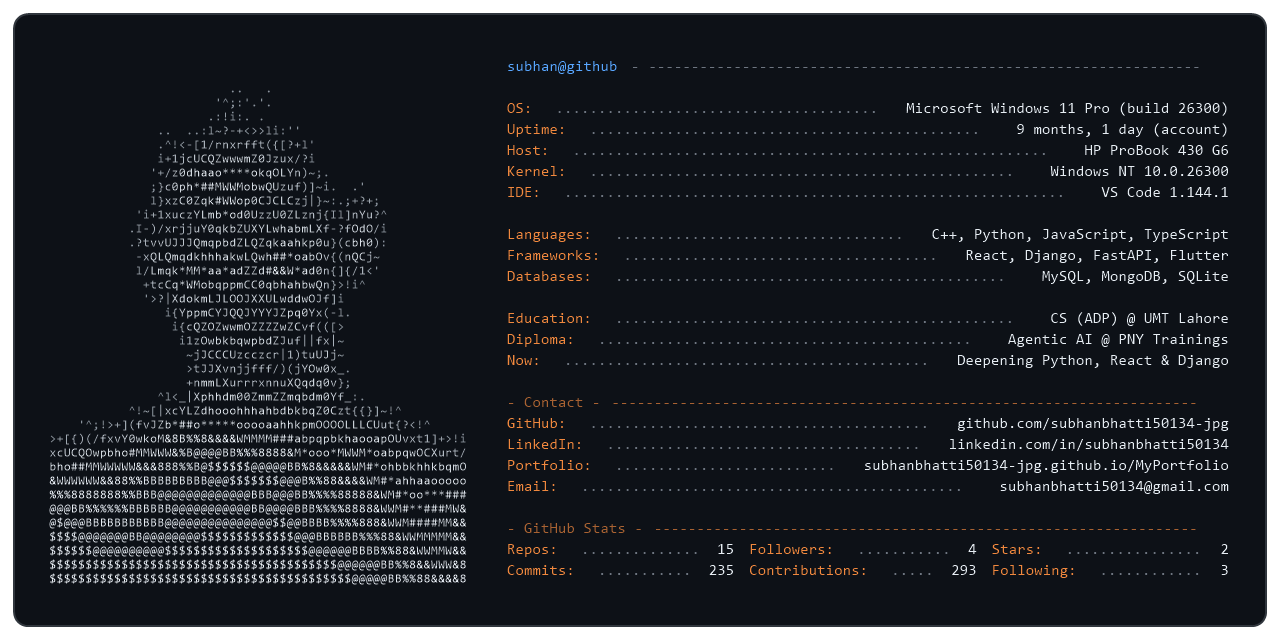
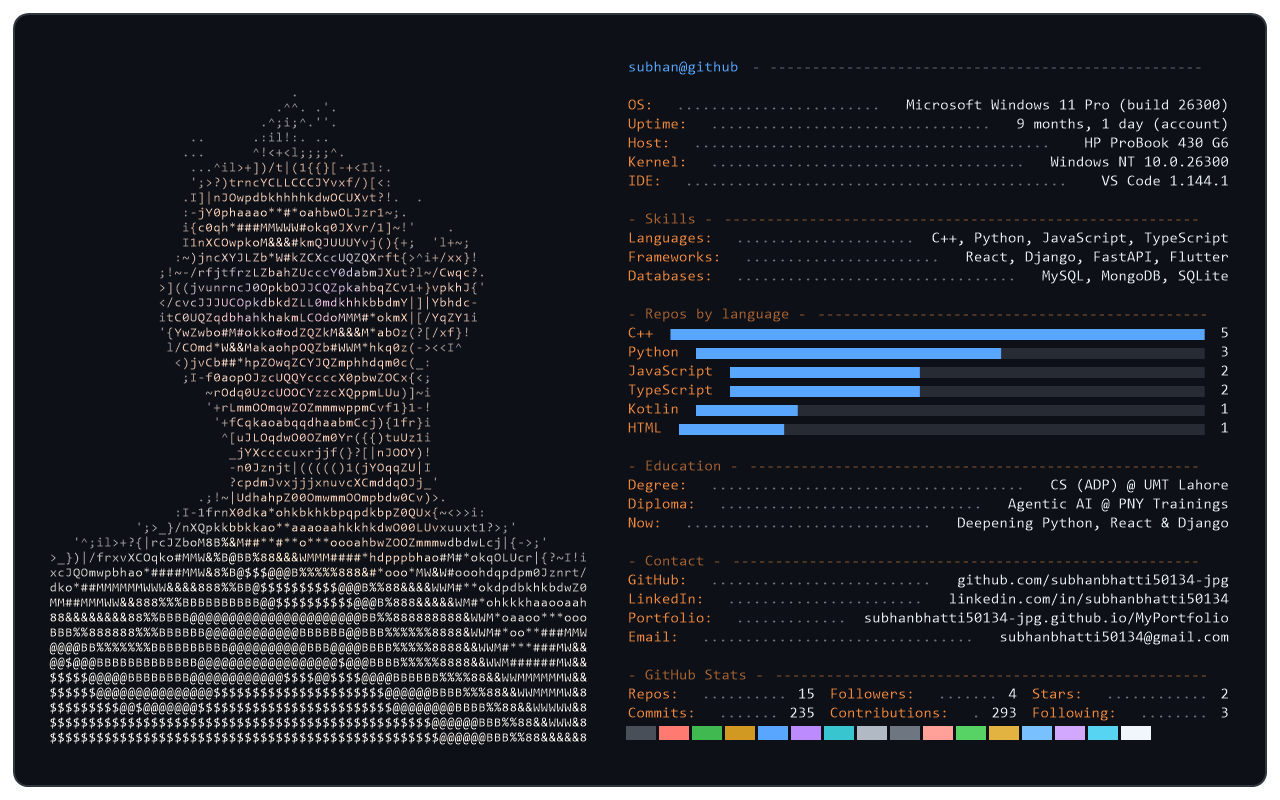
Hero card v3: colourised ASCII portrait, language bars, 16-colour swatches, 69x46 grid

diff --git a/README.md b/README.md
@@ -1,5 +1,5 @@
 <div align="center">
-  <img src="./terminal-hero.png" alt="Neofetch-style profile card: ASCII portrait, system info, contact and GitHub stats" width="100%">
+  <img src="./terminal-hero.png" alt="Neofetch-style profile card: colour ASCII portrait, skills, repos by language bars, contact, GitHub stats and a 16-colour palette strip" width="100%">
 </div>
 
 ---
